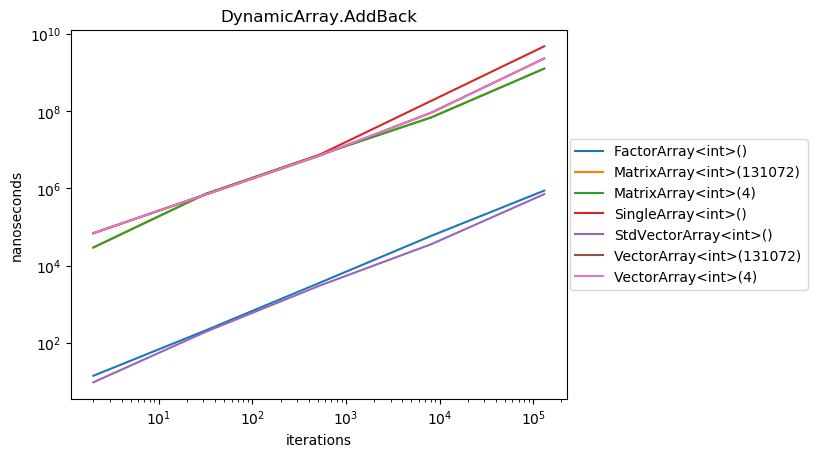
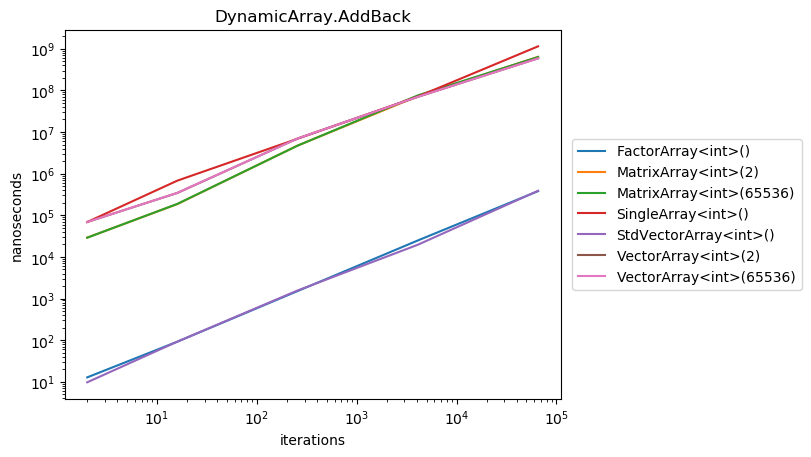
multiple fixes in benchmarks

diff --git a/02_data_structures/dynamic_array_bench.cpp b/02_data_structures/dynamic_array_bench.cpp
@@ -7,69 +7,87 @@
 #include <vector>
 
 template <typename T>
-static void addFront(benchmark::State& state, DynamicArray<T>* array, int iterations)
+static void addFront(benchmark::State& state, DynamicArray<T>* array)
 {
+    for (auto i = 0; i < state.range(0); i++) {
+        array->add(i);
+    }
     const T value = 1;
     for (auto _ : state) {
-        for (auto i = 0; i < iterations; i++) {
-            array->add(value, 0);
-        }
+        array->add(value, 0);
     }
+    state.SetComplexityN(state.range(0));
 }
 
 template <typename T>
-static void addBack(benchmark::State& state, DynamicArray<T>* array, int iterations)
+static void addBack(benchmark::State& state, DynamicArray<T>* array)
 {
+    for (auto i = 0; i < state.range(0); i++) {
+        array->add(i);
+    }
+
     const T value = 1;
     for (auto _ : state) {
-        for (auto i = 0; i < iterations; i++) {
-            array->add(value);
-        }
+        array->add(value);
     }
+    state.SetComplexityN(state.range(0));
 }
 
 template <typename T>
-static void removeFront(benchmark::State& state, DynamicArray<T>* array, int iterations)
+static void removeFront(benchmark::State& state, DynamicArray<T>* array)
 {
+    // массив наполняется первоначальными данными, которые будут удаляться
+    for (auto i = 0; i < state.range(0); i++) {
+        array->add(i);
+    }
+
+    const T value = 1;
     for (auto _ : state) {
+        // удалённый элемент компенсируется
         state.PauseTiming();
-        for (auto i = 0; i < iterations; i++) {
-            array->add(i);
-        }
+        array->add(value, 0);
         state.ResumeTiming();
-        for (auto i = 0; i < iterations; i++) {
-            array->remove(0);
-        }
+
+        array->remove(0);
     }
+    state.SetComplexityN(state.range(0));
 }
 
 template <typename T>
-static void removeBack(benchmark::State& state, DynamicArray<T>* array, int iterations)
+static void removeBack(benchmark::State& state, DynamicArray<T>* array)
 {
+
+    // массив наполняется первоначальными данными, которые будут удаляться
+    for (auto i = 0; i < state.range(0) - 1; i++) {
+        array->add(i);
+    }
+
+    const T value = 1;
     for (auto _ : state) {
+        // удалённый элемент компенсируется
         state.PauseTiming();
-        for (auto i = 0; i < iterations; i++) {
-            array->add(i);
-        }
+        array->add(value);
         state.ResumeTiming();
-        for (auto i = 0; i < iterations; i++) {
-            array->remove(array->size() - 1);
-        }
+
+        array->remove(array->size() - 1);
     }
+    state.SetComplexityN(state.range(0));
 }
 
 template <typename T>
-static void get(benchmark::State& state, DynamicArray<T>* array, int iterations)
+static void get(benchmark::State& state, DynamicArray<T>* array)
 {
-    for (auto i = 0; i < iterations; i++) {
+    for (auto i = 0; i < state.range(0); i++) {
         array->add(i);
     }
     T val;
+
+    // читаем из середины массива
+    auto ix = array->size() / 2;
     for (auto _ : state) {
-        for (auto i = 0; i < iterations; i++) {
-            val = array->get(size_t(i));
-        }
+        benchmark::DoNotOptimize(array->get(ix));
     }
+    state.SetComplexityN(state.range(0));
 }
 
 // add front
@@ -78,14 +96,14 @@ template <typename T>
 static void BM_DynamicArray_AddFront_Simple(benchmark::State& state)
 {
     T array;
-    addFront<int>(state, &array, state.range(0));
+    addFront<int>(state, &array);
 }
 
 template <typename T>
 static void BM_DynamicArray_AddFront_Parametrized(benchmark::State& state)
 {
     T array(static_cast<size_t>(state.range(1)));
-    addFront<int>(state, &array, state.range(0));
+    addFront<int>(state, &array);
 }
 
 // add back
@@ -94,14 +112,14 @@ template <typename T>
 static void BM_DynamicArray_AddBack_Simple(benchmark::State& state)
 {
     T array;
-    addBack<int>(state, &array, state.range(0));
+    addBack<int>(state, &array);
 }
 
 template <typename T>
 static void BM_DynamicArray_AddBack_Parametrized(benchmark::State& state)
 {
     T array(static_cast<size_t>(state.range(1)));
-    addBack<int>(state, &array, state.range(0));
+    addBack<int>(state, &array);
 }
 
 // remove front
@@ -110,14 +128,14 @@ template <typename T>
 static void BM_DynamicArray_RemoveFront_Simple(benchmark::State& state)
 {
     T array;
-    removeFront<int>(state, &array, state.range(0));
+    removeFront<int>(state, &array);
 }
 
 template <typename T>
 static void BM_DynamicArray_RemoveFront_Parametrized(benchmark::State& state)
 {
     T array(static_cast<size_t>(state.range(1)));
-    removeFront<int>(state, &array, state.range(0));
+    removeFront<int>(state, &array);
 }
 
 // remove back
@@ -126,14 +144,14 @@ template <typename T>
 static void BM_DynamicArray_RemoveBack_Simple(benchmark::State& state)
 {
     T array;
-    removeBack<int>(state, &array, state.range(0));
+    removeBack<int>(state, &array);
 }
 
 template <typename T>
 static void BM_DynamicArray_RemoveBack_Parametrized(benchmark::State& state)
 {
     T array(static_cast<size_t>(state.range(1)));
-    removeBack<int>(state, &array, state.range(0));
+    removeBack<int>(state, &array);
 }
 
 // get
@@ -142,20 +160,20 @@ template <typename T>
 static void BM_DynamicArray_Get_Simple(benchmark::State& state)
 {
     T array;
-    get<int>(state, &array, state.range(0));
+    get<int>(state, &array);
 }
 
 template <typename T>
 static void BM_DynamicArray_Get_Parametrized(benchmark::State& state)
 {
     T array(static_cast<size_t>(state.range(1)));
-    get<int>(state, &array, state.range(0));
+    get<int>(state, &array);
 }
 
 // benchmark options
 
-std::vector<int> iteration_values = {2 << 0, 2 << 4, 2 << 8, 2 << 12, 2 << 16};
-std::vector<int> parameter_values = {2 << 1, 2 << 16};
+std::vector<int> iteration_values = {2 << 0, 2 << 3, 2 << 7, 2 << 11, 2 << 15, 2 << 17};
+std::vector<int> parameter_values = {2 << 0, 2 << 15};
 
 static void OnePositionArgs(benchmark::internal::Benchmark* b)
 {
@@ -173,32 +191,32 @@ static void TwoPositionArgs(benchmark::internal::Benchmark* b)
     }
 }
 
-BENCHMARK_TEMPLATE(BM_DynamicArray_AddFront_Simple, SingleArray<int>)->Apply(OnePositionArgs);
+BENCHMARK_TEMPLATE(BM_DynamicArray_AddFront_Simple, SingleArray<int>)->Apply(OnePositionArgs)->Complexity();
 BENCHMARK_TEMPLATE(BM_DynamicArray_AddFront_Simple, VectorArray<int>)->Apply(TwoPositionArgs);
-BENCHMARK_TEMPLATE(BM_DynamicArray_AddFront_Simple, FactorArray<int>)->Apply(OnePositionArgs);
-BENCHMARK_TEMPLATE(BM_DynamicArray_AddFront_Simple, StdVectorArray<int>)->Apply(OnePositionArgs);
+BENCHMARK_TEMPLATE(BM_DynamicArray_AddFront_Simple, FactorArray<int>)->Apply(OnePositionArgs)->Complexity();
+BENCHMARK_TEMPLATE(BM_DynamicArray_AddFront_Simple, StdVectorArray<int>)->Apply(OnePositionArgs)->Complexity();
 BENCHMARK_TEMPLATE(BM_DynamicArray_AddFront_Simple, MatrixArray<int>)->Apply(TwoPositionArgs);
 
-BENCHMARK_TEMPLATE(BM_DynamicArray_AddBack_Simple, SingleArray<int>)->Apply(OnePositionArgs);
+BENCHMARK_TEMPLATE(BM_DynamicArray_AddBack_Simple, SingleArray<int>)->Apply(OnePositionArgs)->Complexity();
 BENCHMARK_TEMPLATE(BM_DynamicArray_AddBack_Simple, VectorArray<int>)->Apply(TwoPositionArgs);
-BENCHMARK_TEMPLATE(BM_DynamicArray_AddBack_Simple, FactorArray<int>)->Apply(OnePositionArgs);
-BENCHMARK_TEMPLATE(BM_DynamicArray_AddBack_Simple, StdVectorArray<int>)->Apply(OnePositionArgs);
+BENCHMARK_TEMPLATE(BM_DynamicArray_AddBack_Simple, FactorArray<int>)->Apply(OnePositionArgs)->Complexity();
+BENCHMARK_TEMPLATE(BM_DynamicArray_AddBack_Simple, StdVectorArray<int>)->Apply(OnePositionArgs)->Complexity();
 BENCHMARK_TEMPLATE(BM_DynamicArray_AddBack_Simple, MatrixArray<int>)->Apply(TwoPositionArgs);
 
-BENCHMARK_TEMPLATE(BM_DynamicArray_RemoveFront_Simple, SingleArray<int>)->Apply(OnePositionArgs);
+BENCHMARK_TEMPLATE(BM_DynamicArray_RemoveFront_Simple, SingleArray<int>)->Apply(OnePositionArgs)->Complexity();
 BENCHMARK_TEMPLATE(BM_DynamicArray_RemoveFront_Simple, VectorArray<int>)->Apply(TwoPositionArgs);
-BENCHMARK_TEMPLATE(BM_DynamicArray_RemoveFront_Simple, FactorArray<int>)->Apply(OnePositionArgs);
-BENCHMARK_TEMPLATE(BM_DynamicArray_RemoveFront_Simple, StdVectorArray<int>)->Apply(OnePositionArgs);
+BENCHMARK_TEMPLATE(BM_DynamicArray_RemoveFront_Simple, FactorArray<int>)->Apply(OnePositionArgs)->Complexity();
+BENCHMARK_TEMPLATE(BM_DynamicArray_RemoveFront_Simple, StdVectorArray<int>)->Apply(OnePositionArgs)->Complexity();
 BENCHMARK_TEMPLATE(BM_DynamicArray_RemoveFront_Simple, MatrixArray<int>)->Apply(TwoPositionArgs);
 
-BENCHMARK_TEMPLATE(BM_DynamicArray_RemoveBack_Simple, SingleArray<int>)->Apply(OnePositionArgs);
+BENCHMARK_TEMPLATE(BM_DynamicArray_RemoveBack_Simple, SingleArray<int>)->Apply(OnePositionArgs)->Complexity();
 BENCHMARK_TEMPLATE(BM_DynamicArray_RemoveBack_Simple, VectorArray<int>)->Apply(TwoPositionArgs);
-BENCHMARK_TEMPLATE(BM_DynamicArray_RemoveBack_Simple, FactorArray<int>)->Apply(OnePositionArgs);
-BENCHMARK_TEMPLATE(BM_DynamicArray_RemoveBack_Simple, StdVectorArray<int>)->Apply(OnePositionArgs);
+BENCHMARK_TEMPLATE(BM_DynamicArray_RemoveBack_Simple, FactorArray<int>)->Apply(OnePositionArgs)->Complexity();
+BENCHMARK_TEMPLATE(BM_DynamicArray_RemoveBack_Simple, StdVectorArray<int>)->Apply(OnePositionArgs)->Complexity();
 BENCHMARK_TEMPLATE(BM_DynamicArray_RemoveBack_Simple, MatrixArray<int>)->Apply(TwoPositionArgs);
 
-BENCHMARK_TEMPLATE(BM_DynamicArray_Get_Simple, SingleArray<int>)->Apply(OnePositionArgs);
+BENCHMARK_TEMPLATE(BM_DynamicArray_Get_Simple, SingleArray<int>)->Apply(OnePositionArgs)->Complexity();
 BENCHMARK_TEMPLATE(BM_DynamicArray_Get_Simple, VectorArray<int>)->Apply(TwoPositionArgs);
-BENCHMARK_TEMPLATE(BM_DynamicArray_Get_Simple, FactorArray<int>)->Apply(OnePositionArgs);
-BENCHMARK_TEMPLATE(BM_DynamicArray_Get_Simple, StdVectorArray<int>)->Apply(OnePositionArgs);
+BENCHMARK_TEMPLATE(BM_DynamicArray_Get_Simple, FactorArray<int>)->Apply(OnePositionArgs)->Complexity();
+BENCHMARK_TEMPLATE(BM_DynamicArray_Get_Simple, StdVectorArray<int>)->Apply(OnePositionArgs)->Complexity();
 BENCHMARK_TEMPLATE(BM_DynamicArray_Get_Simple, MatrixArray<int>)->Apply(TwoPositionArgs);

diff --git a/02_data_structures/transform_benchmark_results.py b/02_data_structures/transform_benchmark_results.py
@@ -27,13 +27,32 @@ def extractIterations(name):
 def buildDataFrame():
     with open(fname) as fd:
         data = json.load(fd)["benchmarks"]
-    df = pandas.DataFrame(data)[["name", "cpu_time"]]
+    src = pandas.DataFrame(data)
+
+    # данные графиков
+    df = src[pandas.notnull(src["cpu_time"])][["name", "cpu_time"]]
     df["method"] = df["name"].apply(extractMethodName)
     df["type"] = df["name"].apply(extractType)
     df["iterations"] = df["name"].apply(extractIterations)
     df = df.drop(columns="name")
     df = df[["method", "type", "iterations", "cpu_time"]]
+
+    return df
+
+
+def buildComplexity():
+    with open(fname) as fd:
+        data = json.load(fd)["benchmarks"]
+    src = pandas.DataFrame(data)
+
+    # вычислительная сложность
+    df = src[pandas.notnull(src["big_o"])][["name", "big_o"]]
     print(df)
+    df["method"] = df["name"].apply(extractMethodName)
+    df["type"] = df["name"].apply(extractType)
+    df = df.drop(columns="name")
+    df = df[["method", "type", "big_o"]]
+
     return df
 
 
@@ -50,6 +69,9 @@ def renderDataFrame(df, method_name):
 
 
 def main():
+    cf = buildComplexity()
+    print(cf)
+
     df = buildDataFrame()
     df.to_csv("/tmp/benchmark.csv")
     for method_name in df["method"].unique().tolist():

diff --git a/02_data_structures/report/README.md b/02_data_structures/report/README.md
@@ -1,0 +1,30 @@
+### Readme 
+
+В тестировании принимали участии следующие имплементации интерфейса `DynamicArray`:
+* `SingleArray`
+* `VectorArray` с длиной приращения массива 2 и 2 <sup>16</sup>;
+* `FactorArray` с параметром роста 2;
+* `MartixArray` с длиной ряда 2 и 2 <sup>16</sup>;
+* `StdVectorArray`, построненной с использованием `std::vector` из стандартной библиотеки С++.
+
+Тестировались методы:
+* `Add` в начало и хвост массива;
+* `Remove` из начала и хвоста массива;
+* `Get` из произвольных мест массива.
+
+Размеры массива:
+* 2
+* 2 <sup>4</sup>
+* 2 <sup>8</sup>
+* 2 <sup>12</sup>
+* 2 <sup>16</sup>
+* 2 <sup>18</sup>
+
+Операция добавления элемента в конец массива для всех имплементаций имеет порядок роста O(N). Лучшую производительность демонстрируют
+`StdVectorArray` и `FactorArray`. В свободное место в хвосте массива данные добавляются за O(1), однако периодически приходится выделять
+больше памяти и проводить копирование данных за O(N), что в результате и даёт итоговую
+![AddBack](https://github.com/vitalyisaev2/algo-2019-04/blob/master/02_data_structures/report/AddBack.png)
+![AddFront](https://github.com/vitalyisaev2/algo-2019-04/blob/master/02_data_structures/report/AddFront.png)
+![RemoveBack](https://github.com/vitalyisaev2/algo-2019-04/blob/master/02_data_structures/report/RemoveBack.png)
+![RemoveFront](https://github.com/vitalyisaev2/algo-2019-04/blob/master/02_data_structures/report/RemoveFront.png)
+![Get](https://github.com/vitalyisaev2/algo-2019-04/blob/master/02_data_structures/report/Get.png)
